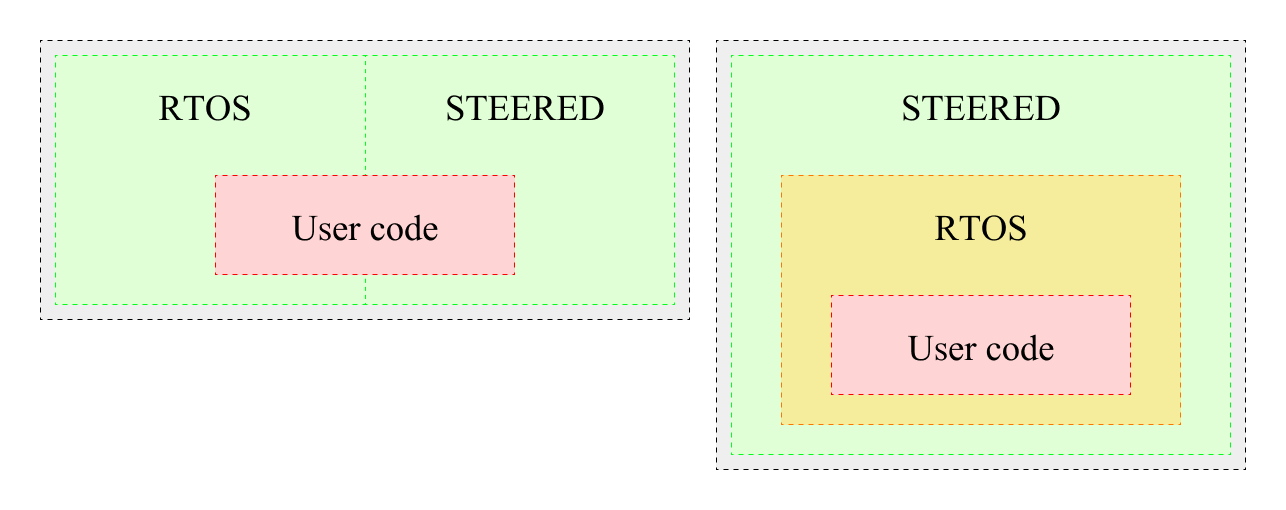
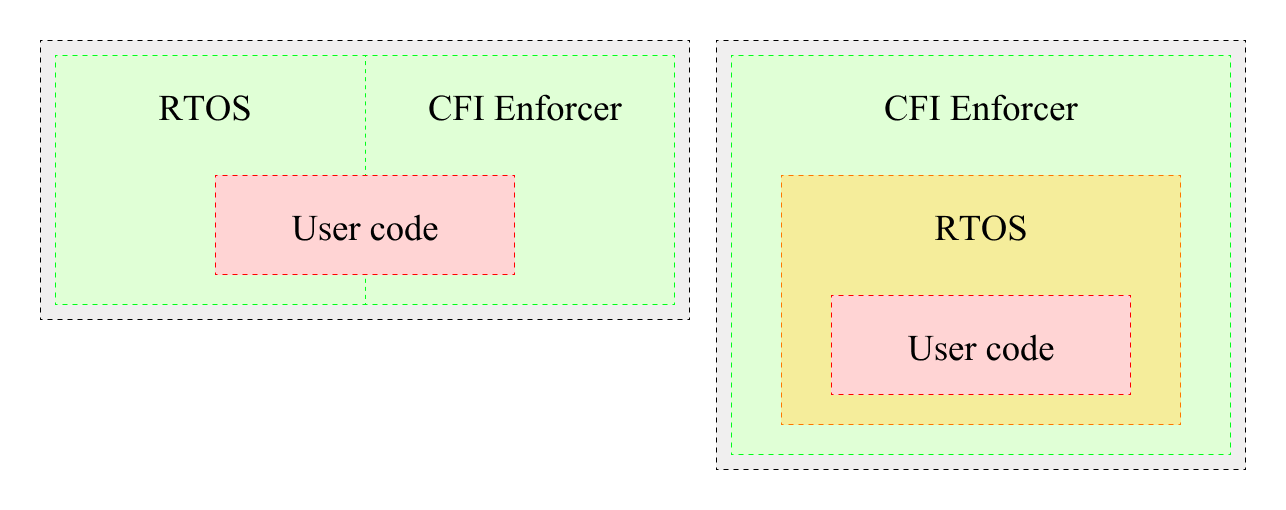
chapter 9 update

Changed region(s): [[0.6843, 0.1765, 0.8398, 0.2353], [0.311, 0.1765, 0.4977, 0.2353]]

diff --git a/chapters/9_future.tex b/chapters/9_future.tex
@@ -1,40 +1,35 @@
 \chapter{Future Works}
 \label{cha:future}
 
-In this thesis, we have seen that the presented project poses itself as a foundational
-approach to improving the security of \textit{RISC-V}-based embedded systems. Moreover,
-it showed promising results in both the threat and performance analysis, making it
-a suitable choice for real-world applications. However, further advancements can
-enhance its applicability, efficiency, and robustness. This chapter outlines
-potential directions for future work to expand the project's capabilities.
+In this thesis, we presented a Control Flow Integrity enforcer that poses itself
+as a foundational approach to improving the security of \textit{RISC-V}-based
+embedded systems. Moreover, the project showed promising results in both the
+security and performance analysis, making it a suitable choice for real-world applications.
+However, further advancements can enhance its applicability, efficiency, and robustness.
+This chapter outlines potential directions for future work to expand the project's
+capabilities.
 
 \section{Additional Security Mechanisms}
 \label{sec:future_security}
 
 In previous chapters, we discussed and demonstrated the ability of the
-infrastructure to detect and prevent control-flow attacks such as Return-Oriented
-Programming or Jump-Oriented Programming. However, in security-demanding
+infrastructure to detect and prevent control flow hijacking attacks such as
+Return-Oriented Programming or Jump-Oriented Programming. However, in security-demanding
 environments, it may be necessary to introduce further techniques to protect the
 Control Flow Integrity of the code. Here we list some security mechanisms that
 we plan to integrate with future updates.
 
-A \textit{Stack Canary} is a security mechanism used to detect and prevent stack-based
-buffer overflow attacks, a common type of vulnerability in programs. It involves
-placing a small, random value (the ``canary'') in memory just before the stack's
-return address. This value acts as a sentinel and is checked for integrity before
-the function returns control to its caller. If a buffer overflow occurs, it overwrites
-memory beyond the intended bounds, which could potentially overwrite the canary
-value before reaching the return address. Before the function returns, the
-program compares the current canary value with the original value. If the values
-differ, the program detects the overflow and terminates the execution to prevent
-further exploitation. \textit{Stack Canaries} are simple yet effective as they
-provide a straightforward way to detect stack corruption caused by buffer
-overflows, also they are widely supported by many compilers. However, the process
-of placing and checking canaries adds slight computational and memory overhead.
-Moreover, \textit{Stack Canaries} only protects against stack-based buffer
-overflows, leaving other memory regions vulnerable. In conclusion, we think that
-\textit{Stack Canaries} would be a good addition to the security features as
-they would be easy to implement and provide a slight increase in security.
+In section \ref{subsec:background_canaries} we introduced the \textit{Stack
+Canary} which is a security mechanism used to detect and prevent stack-based buffer
+overflow attacks, a common type of vulnerability in programs. It involves placing
+a small, random value in memory just before the stack's return address. This value
+acts as a sentinel and is checked for integrity before the function returns control
+to its caller. The \textit{Stack Canary} is simple yet effective as it provides a
+straightforward way to detect stack corruption caused by buffer overflows.
+However, the process of placing and checking canaries adds slight computational and
+memory overhead. Overall, we think that introducing a \textit{Stack Canary} in
+the project would be a good addition to the security features as it would be
+easy to implement and it would provide a slight increase in security.
 
 Since the project suffers from source code modification as we have no way of
 telling if the code was modified or not and this could affect the correctness of
@@ -64,108 +59,109 @@ Graph completely useless as the addresses we collect during the extraction would
 be different from the addresses at execution time leading to a situation where
 each forward edge control fails.
 
-Lastly, note that the project is designed to protect the code from control-flow attacks
-and must be paired with other security measures before deployment. This is
-needed in order to ensure security on every attack surface. Otherwise, a threat
-actor may be able to exploit other vulnerabilities to perpetrate an attack
-bypassing the security features.
+Lastly, note that the project is designed to protect the code from control flow hijacking
+attacks and must be paired with other security measures before deployment. This
+is needed in order to ensure security on every attack surface. Otherwise, a
+threat actor may be able to exploit other vulnerabilities to perpetrate an
+attack bypassing the provided security features.
 
 \section{Code Optimization}
 \label{sec:future_optimization}
 
 Although the project has been designed with performance considerations, further
 optimizations could enhance its usability in a broader range of embedded
-applications. During the Performance Analysis in chapter \ref{cha:pa} we have seen
-that the system comes with an acceptable average time and space overhead.
+applications. During the performance analysis in chapter \ref{cha:pa} we have seen
+that the system comes with an acceptable average time and memory overhead.
 However, there are edge cases where this is not true and the overhead grows exponentially.
 In future works, we plan to provide optimization solutions to cover such cases lowering
 the time and space impact on the execution.
 
 Firstly, we propose a solution to address the space overhead of deeply recursive
-algorithms. We have seen that in these cases we need to allocate a very big Shadow
-Stack which increases the size of the produced binary. To solve this, we propose
+algorithms. We have seen that in these cases we need to allocate a very big shadow
+stack which increases the size of the produced binary. To solve this, we propose
 to add a \textit{peek} function which allows us to look at the first element of
-the Shadow Stack without removing it. When we need to perform a forward edge control
-and consequently push the return address into the Shadow Stack we first check the
+the shadow stack without removing it. When we need to perform a forward edge control
+and consequently push the return address into the shadow stack we first check the
 top value. If the addresses are the same we avoid pushing the same value more
 times. On the other hand, when we need to perform a backward edge control we
-look at the first value of the Shadow Stack. If the two addresses are equal we approve
+look at the first value of the shadow stack. If the two addresses are equal we approve
 the return instruction without popping the value. Instead, if the addresses differ,
 we pop two values and compare the second one with the return address we are
 checking. With this solution, we could effectively address the problem with
-deeply recursive algorithms without affecting the security capabilities.
+deeply recursive algorithms without affecting the security capabilities of the
+project.
 
 Secondly, we provided a solution to reduce memory usage in cases where the user code
 is small. For example, say that the user code starts at address $0x4038A000$ and
-ends at address $0x4038F000$. Well, in this case, we can ignore the first $16$
-bits of the address as they do not provide useful information. This means that we
-could modify the Shadow Stack to store \textit{unsigned short} values instead of
-\textit{unsigned int} values. Such a solution would halve the memory requirement
-for the Shadow Stack. Although this solution is very effective in memory management
-it is only applicable when the codebase is very small.
+ends at address $0x4038F000$. In this case, we can ignore the first $16$ bits of
+the address as they do not provide useful information. This means that we could
+modify the shadow stack and Control Flow Graph to store \textit{unsigned short} values
+instead of \textit{unsigned int} values. Such a solution would halve the memory requirement
+for the shadow stack and CFG. Although this solution is very effective in memory
+management it is only applicable when the codebase is very small.
 
-Moreover, we have seen that if the user-imported code is very big, take as an example
-a firmware, the Control Flow Graph would drastically increase in size. This is because,
-the larger the code, the larger the possibility to have many jump instructions from
-different source addresses to different destination addresses. To address this
-problem, we propose to use a Hash Map instead of a two-dimensional array to represent
-the CFG. Although this solution does not reduce memory usage, it allows for faster
-lookups as Hash Maps provide accesses in constant time ($\mathcal{O}(1)$).
+Moreover, we have seen that if the user-imported code is very big, take as an
+example a firmware, the Control Flow Graph would drastically increase in size.
+This is because, the larger the code, the larger the possibility to have many
+jump instructions from different source addresses to different destination
+addresses. To address this problem, we propose to use a Hash Map instead of a
+two-dimensional array to represent the CFG. Although this solution does not reduce
+memory usage, it allows for faster lookups as Hash Maps provide accesses in
+constant time ($\mathcal{O}(1)$).
 
-Lastly, translating the source code from the \textit{C} programming language into
-pure \textit{Assembly} language can significantly enhance performance. This conversion
-allows for more fine-grained control over system resources, enabling developers
-to write code that is tailored specifically to the hardware on which it runs. As
-a result, it opens up opportunities for advanced optimization techniques that
-can minimize both time and memory overhead. By leveraging the specific architecture
-of the processor, programmers can streamline execution paths, reduce unnecessary
-computations, and manage memory usage more efficiently, which collectively contributes
-to a more responsive and efficient application.
+Lastly, translating the source code from the \textit{C} programming language
+into pure \textit{Assembly} language can significantly enhance performance. This
+conversion allows for more fine-grained control over system resources, enabling to
+write code that is tailored specifically to the hardware on which it runs. As a
+result, it opens up opportunities for advanced optimization techniques that can minimize
+both time and memory overhead. By leveraging the specific architecture of the
+processor, programmers can streamline execution paths, reduce unnecessary
+computations, and manage memory usage more efficiently, which collectively
+contributes to a more responsive and efficient application.
 
 \section{Exhaustive Testing}
 \label{sec:future_testing}
 
-During the Threat Analysis in chapter \ref{cha:ta} we showcased the
-effectiveness of the project in protecting the Control Flow Integrity of the
-user code. Moreover, we proved through tests that attempts to perform an
-unauthorized control transfer are immediately detected and prevented by the
-Control Flow Integrity Enforcer. However, we also pointed out that the presented
-project is not able to mitigate non-control-flow attacks. In future works, we
-plan to perform exhaustive testing of the project to further inspect its
-behavior in diverse environments. This could lead to either stronger proof that it
-is actually able to protect the code or to the discovery of untested scenarios.
-In the case of the latter, we plan to provide a solution to eventual unexpected behavior.
+During the security analysis in chapter \ref{cha:ta} we showcased the effectiveness
+of the project in protecting the Control Flow Integrity of the user code.
+Moreover, we proved through tests that attempts to perform an unauthorized control
+transfer are immediately detected and prevented by the Control Flow Integrity enforcer.
+However, we also pointed out that the presented project is not able to mitigate non-control-flow
+hijacking attacks. In future works, we plan to perform exhaustive testing of the
+project to further inspect its behavior in diverse environments. This could lead
+to either stronger proof that the project is actually able to protect the code
+or to the discovery of untested scenarios. In the case of the latter, we plan to
+provide a solution to eventual unexpected behavior.
 
 \section{RTOS Implementation}
 \label{sec:future_rtos}
 
-The main focus for future works sees the integration of a Real-Time Operating
-System such as \textit{FreeRTOS} or \textit{Zephyr RTOS}. Such a task is of great
-importance since an implementation providing the features of both the project and
-an RTOS would drastically increase the number of fields in which this project could
-be used. This would open the door to more complex solutions and would allow
-embedded devices to carry out complex tasks within the secure execution
-environment.
+The main focus for future works sees the integration of a Real-Time Operating System
+such as \textit{FreeRTOS} or \textit{Zephyr RTOS}. Such a task is of great
+importance since an implementation providing the features of both the project
+and an RTOS would drastically increase the number of fields in which this
+project could be used. This would open the door to more complex solutions and would
+allow embedded devices to carry out complex tasks while Control Flow Integrity is
+preserved by the project.
 
-We already discussed all the additional features that an RTOS can provide in
-chapter \ref{cha:rtos} giving insights on the advantages of using such
-technology. Also, we discussed the limitations we would face during the
-integration of an RTOS. Note that there are various ways to carry out this task as,
-depending on the specific situation, we may want to have the Control Flow Integrity
-Enforcer and the RTOS running at the same privilege level or, we may want the
-RTOS to run at an intermediate level while the CFI Enforcer serves provides
-security for both the RTOS and the user code.
+We already discussed all the additional features that an RTOS can provide in chapter
+\ref{cha:rtos} giving insights on the advantages of using such technology. Also,
+we discussed the limitations we would face during the integration of an RTOS.
+Note that there are various ways to carry out this task as, depending on the specific
+situation, we may want to have the Control Flow Integrity enforcer and the RTOS
+running at the same privilege level or, we may want the RTOS to run at an intermediate
+level while the CFI enforcer provides security for both the RTOS and the user code.
 
-We aim to enhance the project by providing the following implementation. In our idea,
-the Control Flow Integrity Enforcer is the only code that runs at M-mode and it
-is responsible for managing machine-level traps as well as forward and backward
+We aim to enhance the project by providing the following implementation. In our
+idea, the Control Flow Integrity enforcer is the only code that runs at M-mode and
+it is responsible for managing machine-level traps as well as forward and backward
 edge controls. The selected RTOS, be it \textit{FreeRTOS}, \textit{Zephyr RTOS},
-or any other RTOS, would run in supervisor mode. This is because we want the
-RTOS to be less privileged than teh CFI Enforcer but more privileged than the
-user code. Lastly, the user code would run in U-mode as already described in
-this thesis. Figure \ref{fig:rtos} depicts an abstraction of the described implementations
-where green, orange, and red colors represent machine, supervisor, and user modes
-respectively. \\
+or any other RTOS, would run in supervisor mode. This is because we want the RTOS
+to be less privileged than teh CFI enforcer but more privileged than the user code.
+Lastly, the user code would run in U-mode as already described in this thesis.
+Figure \ref{fig:rtos} depicts an abstraction of the described implementations
+where green, orange, and red colors represent machine, supervisor, and user
+modes respectively. \\
 \begin{figure}[htbp]
   \centering
   \includegraphics[width=\linewidth]{images/rtos.png}
@@ -177,27 +173,28 @@ To achieve this result, the first thing we need to do is add the letter \textit{
 to the Instruction Set Architecture we want to use, making it \textit{RV32IMCS\_ZICSR}
 to add supervisor capabilities to our \textit{RISC-V} ISA.
 
-For the second step, we need to import the files required by the RTOS, since
-many RTOSes are designed with a modular approach not every file is necessary. For
-example, we may want to import only the kernel itself or, if we need networking capabilities,
-we would need to import the connectivity-related source files.
+For the second step, we need to import the files required by the RTOS, since many
+RTOSes are designed with a modular approach not every file is necessary. For
+example, we may want to import only the kernel itself or, if we need networking
+capabilities, we would need to import the connectivity-related source files and so
+on.
 
-Lastly, we need to modify the instrumentation phase in two ways. Firstly, we need
-to add as a target for instrumentation the source code of the RTOS if we wish to
-enforce Control Flow Integrity on it. This can be done by simply adding the
-files related to the RTOS to the list \textit{files\_to\_instrument} inside the \textit{flasher.py}
-file. Secondly, we need to add the regexes and instrumentation capabilities to
-delegate CSR instructions the the interrupt vector table of the project. This is
-needed if we want the RTOS to run as supervisor since, from such a privilege
-level it has no access to Control and Status Registers. A solution to this implementation
-is deeply discussed in section \ref{sec:rtos_limitations} where we discuss each step
-needed to effectively modify the instrumentation phase to address the CSR access
-limitation.
+Lastly, we need to modify the instrumentation phase in two ways. Firstly, we
+need to add as a target for instrumentation the source code of the RTOS if we
+wish to enforce Control Flow Integrity on it. This can be done by simply adding the
+files related to the RTOS to the list \textit{files\_to\_instrument} inside the
+\textit{flasher.py} file. Secondly, we need to add the regexes and instrumentation
+capabilities to delegate CSR instructions the the interrupt vector table of the project.
+This is needed if we want the RTOS to run as supervisor since, from such a privilege
+level it has no access to Control and Status Registers. A solution to this
+implementation is deeply discussed in section \ref{sec:rtos_limitations} where
+we discuss each step needed to effectively modify the instrumentation phase to
+address the CSR access limitation.
 
 In conclusion, to make the building process easier we may add a simple parameter
-to the input of \textit{flasher.py}. As of now, the file can be launched with the
-commands described in section \ref{sec:project_instrumentation} but, by simply
-adding a parameter like \textit{RTOS=(y/n)} we could launch \textit{flasher.py}
-with \textit{python3 flasher.py \textbf{command} \textbf{rtos}}. Such simple
-modification would make it easier to either include the RTOS files or not. Providing
-a simple and fast building process to any kind of project.
+to the input of \textit{flasher.py}. As of now, the file can be launched with
+the commands described in section \ref{sec:project_instrumentation} but, by simply
+adding a parameter like \textit{RTOS=(y/n)} we could launch \textit{flasher.py} with
+\textit{python3 flasher.py command rtos}. Such simple modification would make it
+easier to either include the RTOS files or not. Providing a simple and fast
+building process to any kind of project.

diff --git a/chapters/8_freertos.tex b/chapters/8_freertos.tex
@@ -298,11 +298,11 @@ instruction we want to perform and all the other bits to represent the target CS
 Inside the interrupt vector table, we would just need to add an if statement to
 determine if we are requesting to perform a CSR instruction on behalf of \textit{FreeRTOS}
 based on the \textit{ECALL} code. \\ \begin{lstlisting}[style=Assembly, caption = \textit{FreeRTOS} instrumentation for Control and Status Register operations, label={lst:csrinstrumentation}]
- mv a5, w_value      # Load the value to write into the CSR
- la a6, a6, csr      # Load the address of the target CSR
- ori a6, op_encoding # Load the encoding of the CSR operation
- addi a7, a7, ecode  # Load the new ECALL value
- ecall               # Perform the ECALL instruction
+ mv a5, w_value     # Move the value to write into the CSR
+ la a6, csr         # Load the address of the target CSR
+ ori a6, a6, csr_op # Or with the encoding of the CSR operation
+ addi a7, a7, ecode # Load the new ECALL value
+ ecall              # Perform the ECALL instruction
 \end{lstlisting}
 
 Note that this is just a proposal of implementation and there are other ways to
